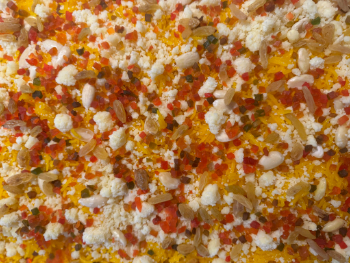
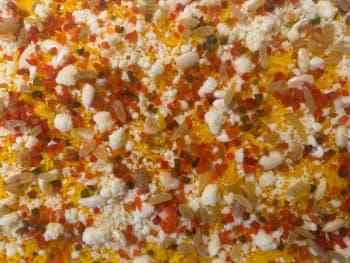
compressed images to below 50kb.  Site will load LIGHTING FAST

diff --git a/index.html b/index.html
@@ -46,7 +46,7 @@
             -->
 
             <!-- Photo by Anna Pou : https://www.pexels.com/photo/person-holding-silver-fork-and-knife-9345670/ -->
-            <img src="assets/img/image.png" alt="" class="img-bg">
+            <img src="assets/img/image.jpg" alt="" class="img-bg">
 
             <div>
                 <h1>Enjoyable food for all the family</h1>

diff --git a/styles.css b/styles.css
@@ -44,7 +44,7 @@ nav h1 div:last-child {
 /* content */
 /* main */
 main {
-    background: linear-gradient(rgba(0, 0, 0, 0.473)), url('assets/img/hero.png') no-repeat center / cover;
+    background: linear-gradient(rgba(0, 0, 0, 0.473)), url('assets/img/hero.jpg') no-repeat center / cover;
     width: 100%;
     height: 90vh;
     margin-bottom: 5em;
